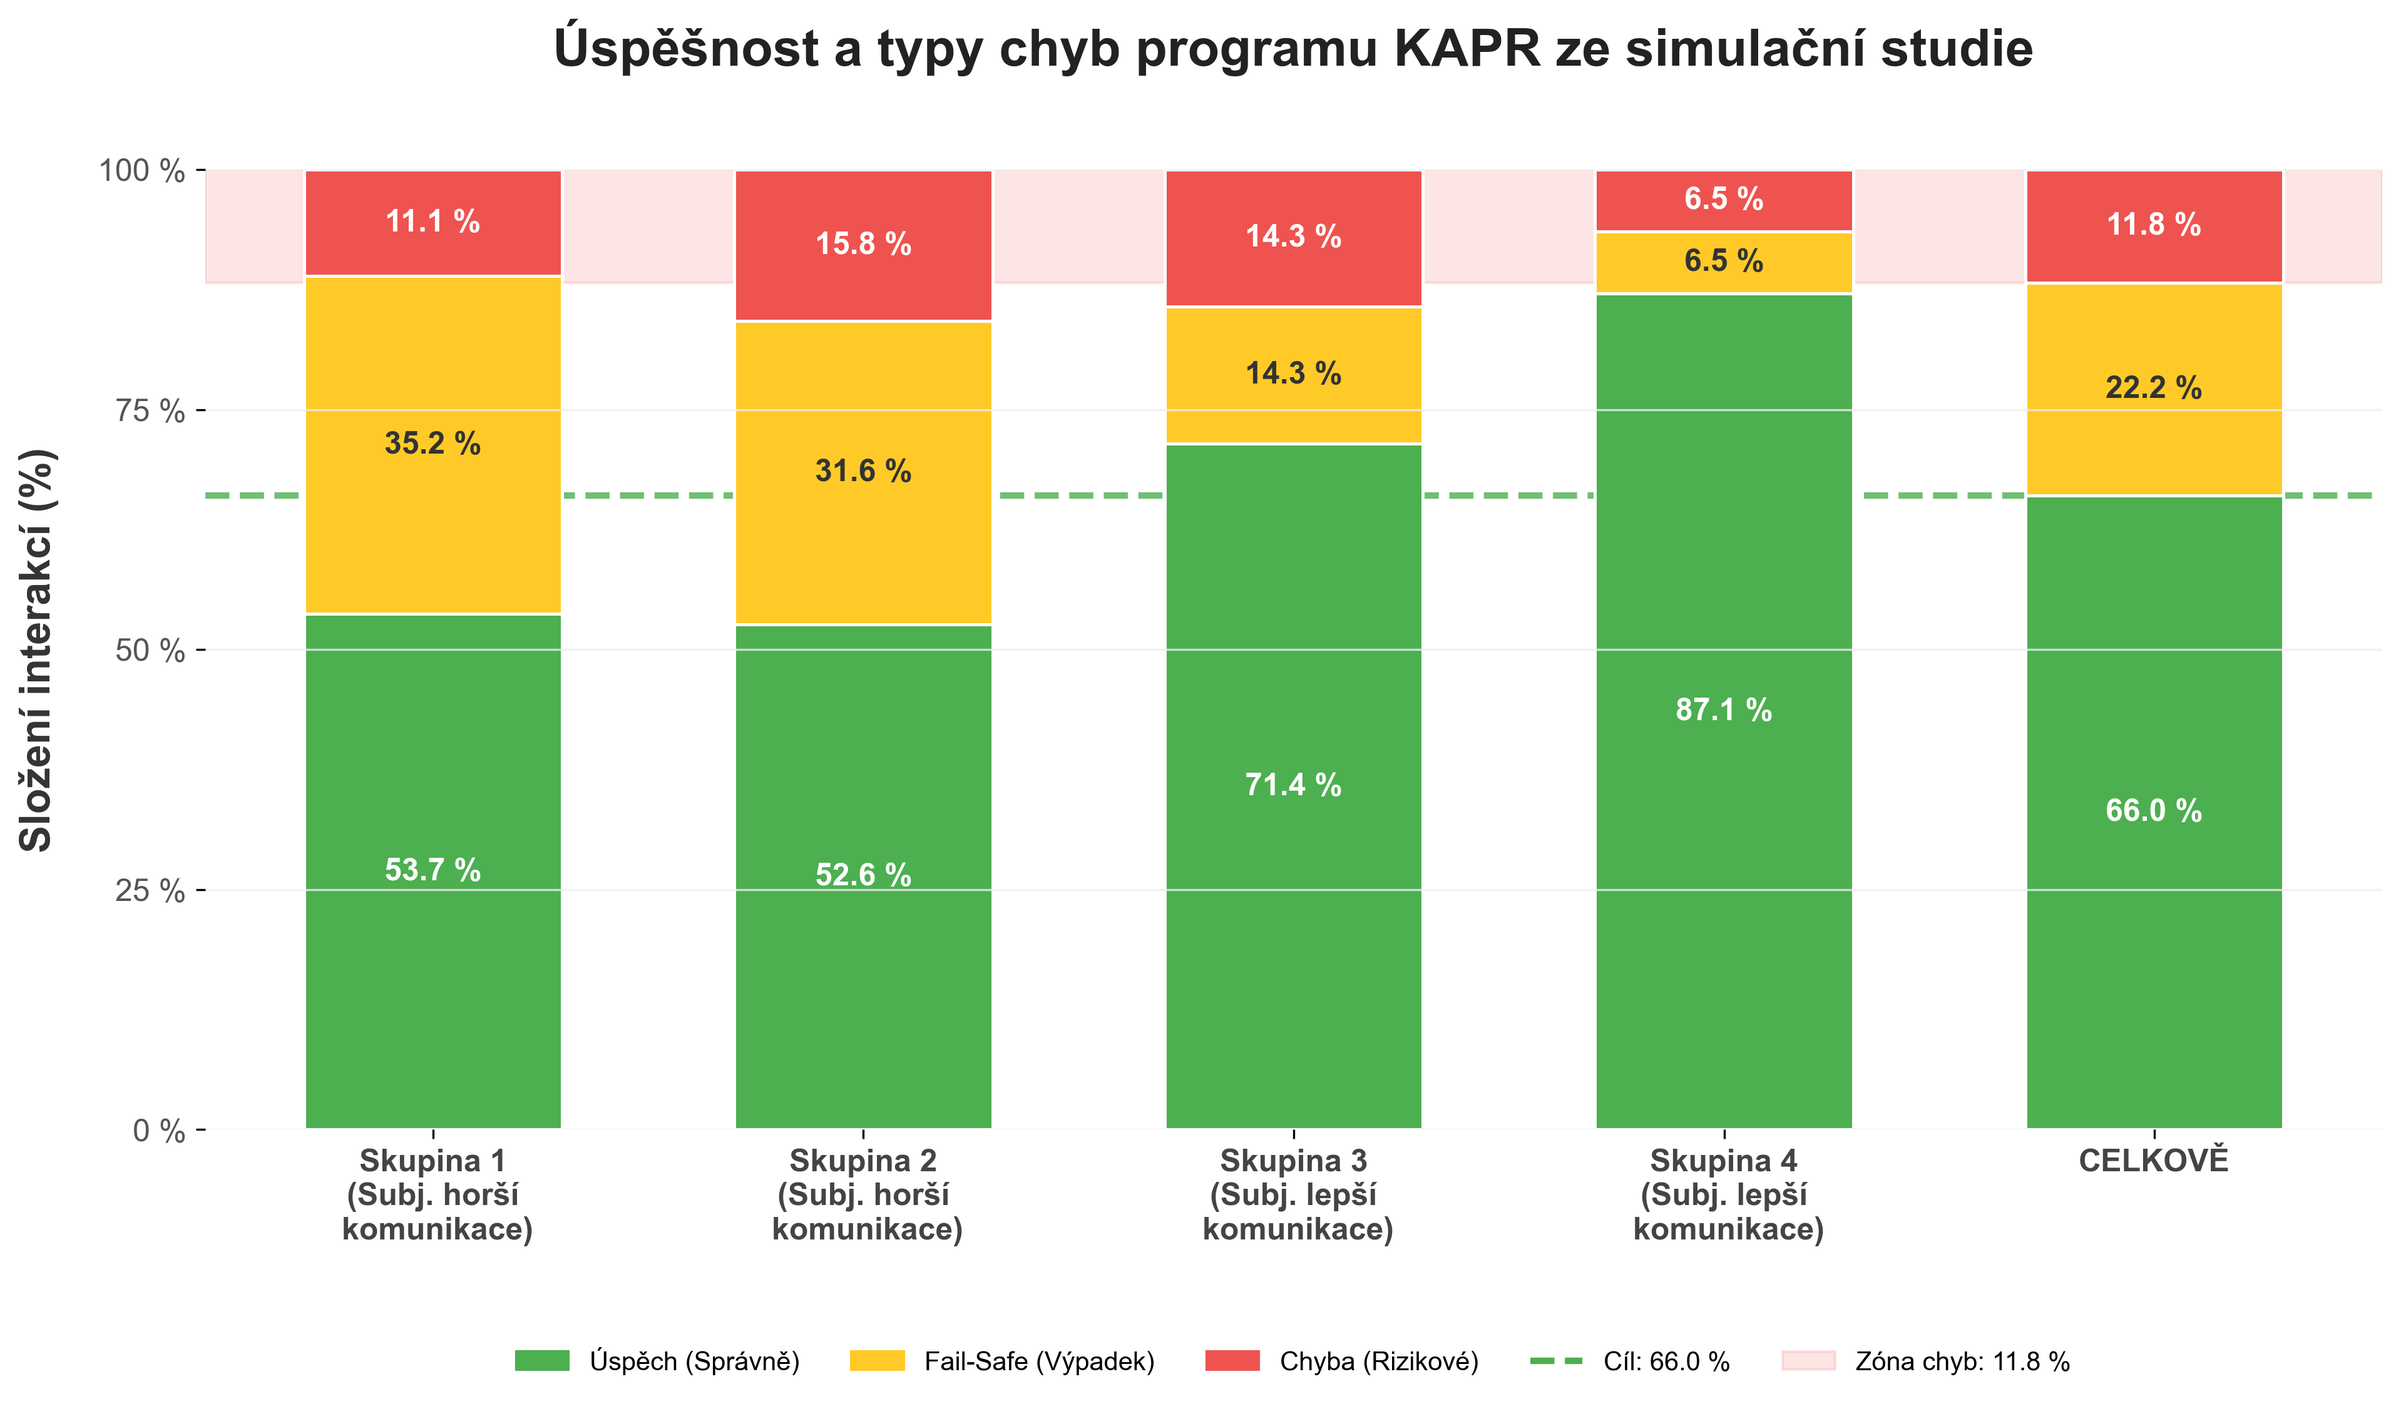
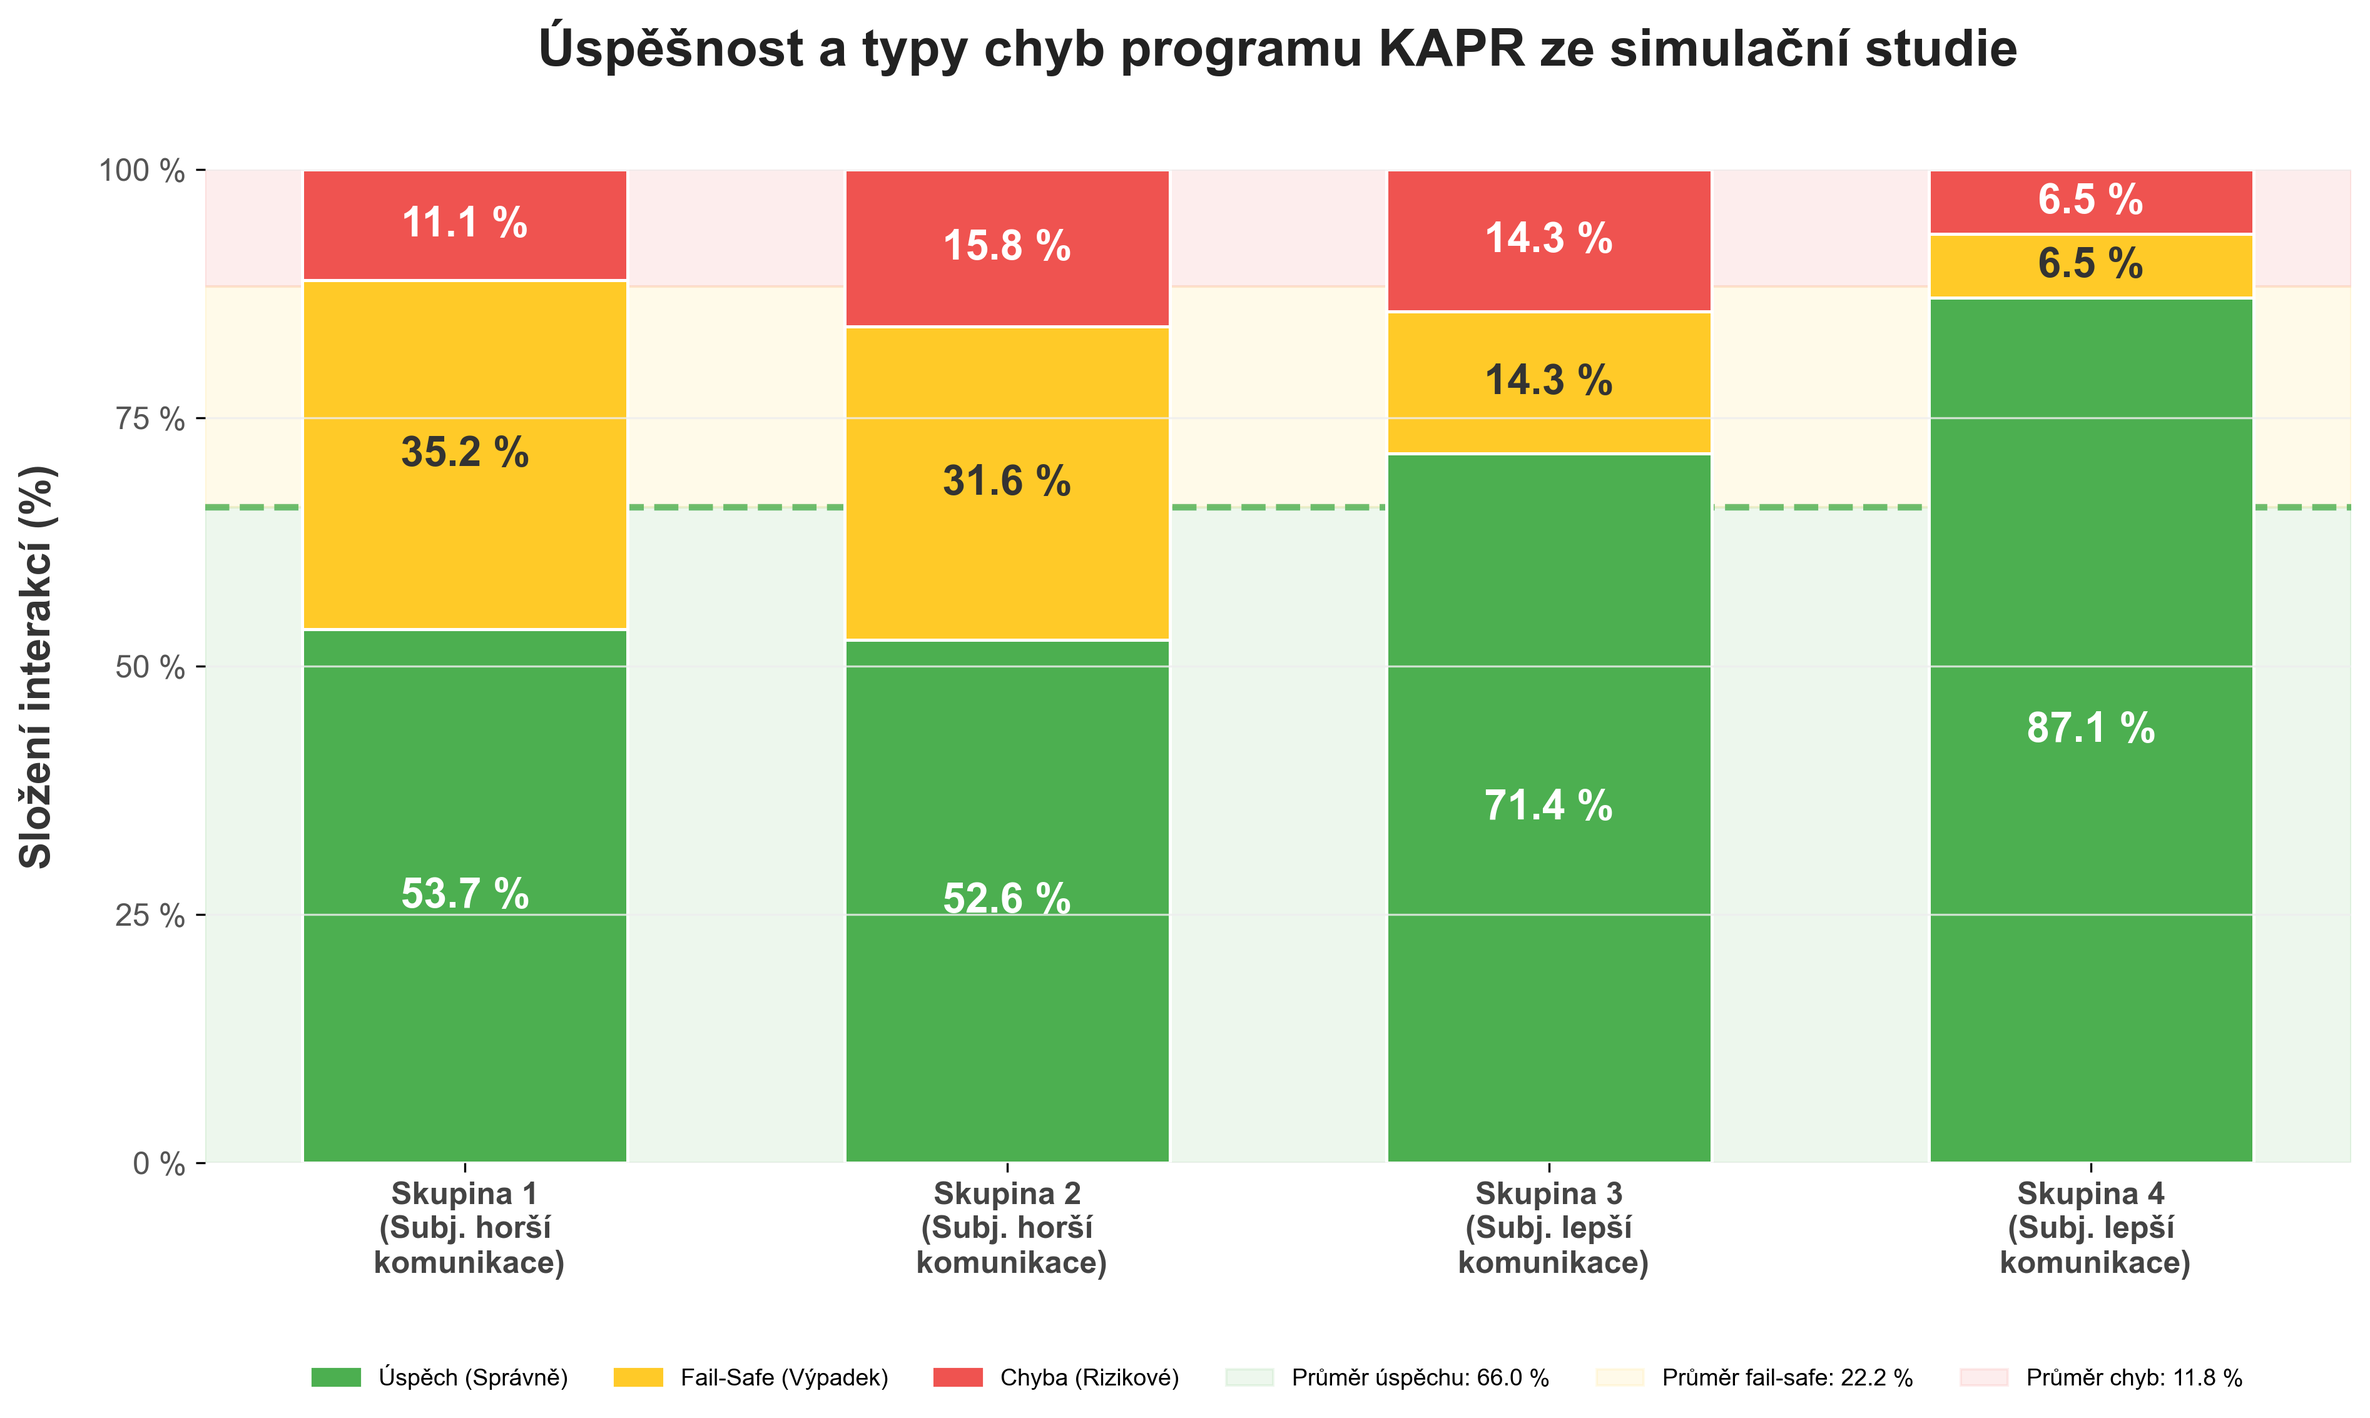
graphs transparent bg

diff --git a/survey_analysis/graph1.py b/survey_analysis/graph1.py
@@ -14,10 +14,10 @@ rcParams["font.family"] = "Arial"
 rcParams["font.size"] = 14
 rcParams["axes.titlesize"] = 20
 rcParams["axes.labelsize"] = 16
-rcParams["figure.figsize"] = (14, 9) # Trochu vyšší pro větší rozestupy
+rcParams["figure.figsize"] = (14, 10) # Ještě o kousek vyšší pro popisky nad kraji
 rcParams["axes.spines.top"] = False
 rcParams["axes.spines.right"] = False
-rcParams["axes.spines.left"] = False # Skrytí linky levé osy, když u ní nejsou popisky
+rcParams["axes.spines.left"] = False # Skrytí linky levé osy
 rcParams["axes.spines.bottom"] = False # Skrytí linky osy X
 
 # ========= NAČTENÍ DAT =========
@@ -25,13 +25,24 @@ try:
     df = pd.read_csv(CSV_PATH)
 except FileNotFoundError:
     print("Soubor nenalezen, generuji testovací data...")
-    df = pd.DataFrame({
+    np.random.seed(42)
+    test_data = {
         "Jak často si musíte ve zdravotnické dokumentace „vymýšlet“ některé údaje? (Např. Časy během KPR, podané léky, vitální parametry, apod.)": np.random.randint(1, 11, 100),
         "Přesnost dokumentace": np.random.randint(1, 11, 100),
         "Úsporu času ": np.random.randint(1, 11, 100),
         "Možnost zpětné analýzy": np.random.randint(1, 11, 100),
         "Snížení zátěže personálu": np.random.randint(1, 11, 100)
-    })
+    }
+    
+    df = pd.DataFrame(test_data)
+    
+    # OPRAVA: Převedeme celou tabulku na typ 'object', abychom do ní mohli vkládat texty
+    df = df.astype(object) 
+    
+    cols = list(df.columns)
+    df.loc[0, cols[0]] = "Často"
+    df.loc[1, cols[0]] = "Nikdy"
+    df.loc[2, cols[1]] = "Nezlepší"
 
 # Slovník mapující názvy
 column_mapping = {
@@ -69,7 +80,10 @@ for col in existing_cols:
     df[col] = df[col].apply(convert_likert)
 
 # ========= VYKRESLENÍ =========
+# fig, ax = plt.subplots(tight_layout=True) # tighten_layout může pomoci, ale upravíme ručně
 fig, ax = plt.subplots()
+fig.patch.set_alpha(0)  # Transparentní pozadí figure
+ax.patch.set_alpha(0)   # Transparentní pozadí plochy grafu (pod řádky)
 
 categories = list(range(1, 11))
 colors = [
@@ -77,14 +91,15 @@ colors = [
     "#f7f7f7", "#fddbc7", "#f4a582", "#d6604d", "#b2182b"
 ]
 
-# Zvětšení mezer mezi řádky (násobeno 1.5), aby se nad pruh vešel text
-y_positions = np.arange(len(existing_cols)) * 1.5
+# Zvětšení mezer mezi řádky (násobeno 1.8), aby se nad pruh vešlo více textu
+y_positions = np.arange(len(existing_cols)) * 1.8
 display_names_plotted = [column_mapping[col] for col in existing_cols]
 
 for i, col in enumerate(existing_cols):
     counts = df[col].value_counts(normalize=True).reindex(categories).fillna(0)
     cumulative = 0
 
+    # Vykreslení pruhů
     for j, cat in enumerate(categories):
         value = counts.get(cat, 0) * 100 
         
@@ -95,9 +110,10 @@ for i, col in enumerate(existing_cols):
                 left=cumulative,
                 color=colors[j],
                 edgecolor="white",
-                height=0.65
+                height=0.7 # Trochu tlustší pruh
             )
             
+            # Čísla uvnitř pruhů
             if value >= 4:
                 text_color = "black" if 3 <= j <= 6 else "white"
                 ax.text(
@@ -105,72 +121,58 @@ for i, col in enumerate(existing_cols):
                     y_positions[i], 
                     f"{int(round(value))}%", 
                     ha='center', va='center', 
-                    color=text_color, fontsize=11, fontweight='bold'
+                    color=text_color, fontsize=16, fontweight='bold'
                 )
                 
         cumulative += value
 
+    # Popisky otázek a konců škály
     display_name = display_names_plotted[i]
     left_text, right_text = row_labels[display_name]
     
-    # ---------------------------------------------------------
-    # NOVÉ: Název otázky centrovaný NAD pruhem (x=50, y=pozice+0.45)
-    # ---------------------------------------------------------
-    ax.text(50, y_positions[i] + 0.45, display_name, ha='center', va='bottom', 
-            fontsize=14, fontweight='bold', color='black')
+    # 1. Název otázky centrovaný NAD pruhem (y_pos + 0.6)
+    ax.text(50, y_positions[i] + 0.6, display_name, ha='center', va='bottom', 
+            fontsize=16, fontweight='bold', color='black')
     
-    # Texty vlevo a vpravo
-    ax.text(-2, y_positions[i], left_text, ha='right', va='center', 
-            fontsize=12, fontweight='bold', color='#444444')
-    ax.text(102, y_positions[i], right_text, ha='left', va='center', 
-            fontsize=12, fontweight='bold', color='#444444')
+    # ------------------------------------------------------------------
+    # NOVÉ: Popisky konců škály ("Nikdy/Často") přesunuty NAD PRUH na kraje
+    # ------------------------------------------------------------------
+    # Nastavíme stejnou vertikální výšku jako název otázky, va='bottom'
+    # Ale změníme x pozice na 0 a 100 a změníme ha (horizontální zarovnání)
+    label_y_pos = y_positions[i] + 0.6
+    
+    # Levý popis ("Nikdy"): x=0, zarovnat doleva (ha='left')
+    ax.text(0, label_y_pos, left_text, ha='left', va='bottom', 
+            fontsize=16, fontweight='bold', color='#555555')
+    
+    # Pravý popis ("Často"): x=100, zarovnat doprava (ha='right')
+    ax.text(100, label_y_pos, right_text, ha='right', va='bottom', 
+            fontsize=16, fontweight='bold', color='#555555')
 
 
-# Skryjeme původní osu Y (názvy jsme přesunuli nad pruhy)
+# Skryjeme původní osu Y
 ax.set_yticks([])
 
 # ==============================================================
-# VYLEPŠENÁ OSA X (Skrytí 0, zarovnání, barvy a dynamické obrysy)
+# OSE X (Zachováno předchozí nastavení)
 # ==============================================================
 ax.set_xlim(0, 100)
-
-# Osa začne od 10 do 100 (krok 10), tím se zbavíme nuly
 ax.set_xticks(np.arange(10, 101, 10)) 
 ax.set_xticklabels(['1', '2', '3', '4', '5', '6', '7', '8', '9', '10'])
-
-# Skryje samotné "čárky" na ose X, nechá pouze zarovnaný text
 ax.tick_params(axis='x', length=0) 
 
-# Projdeme popisky a obarvíme je + přidáme dynamický outline
+# Obarvení čísel na ose X
 for i, label in enumerate(ax.get_xticklabels()):
-    # Index 'i' jde 0 až 9, odpovídá číslům 1-10 a barvám v poli 'colors'
     label.set_color(colors[i])
     label.set_fontweight('bold')
-    
-    # Podmínka pro barvu outline - stejná logika jako máte pro čísla v grafu
-    # Indexy 3 až 6 (odpovídá číslům 4, 5, 6, 7 na škále) dostanou černý outline, zbytek bílý
-    #outline_color = "black" if 4 <= i <= 8 else "white"
     outline_color = "black"
-    
     label.set_path_effects([pe.withStroke(linewidth=1, foreground=outline_color)])
 
 ax.set_xlabel("Škála hodnocení", labelpad=15)
-ax.set_title("Očekávaný přínos AI systému", pad=30)
+ax.set_title("Očekávaný přínos AI systému", pad=40) # Ještě větší odstup titulu
 
-# ==============================================================
-# NOVÉ: Obarvení čísel 1 až 10 na ose X dle barev z grafu
-# ==============================================================
-for i, label in enumerate(ax.get_xticklabels()):
-    # Index 0 je prázdný řetězec (''), čísla 1-10 jsou na indexech 1 až 10
-    if i > 0 and i <= len(colors):
-        label.set_color(colors[i - 1])
-        label.set_fontweight('bold') # Přidáme tučné písmo pro lepší čitelnost
+# Úprava okrajů plátna - "left" jsme zmenšili, "right" zvětšili pro popisky, "top" pro název
+plt.subplots_adjust(left=0.05, right=0.95, top=0.9, bottom=0.1)
 
-ax.set_xlabel("Škála hodnocení", labelpad=10)
-ax.set_title("Očekávaný přínos AI systému", pad=30) # Větší odstup nadpisu
-
-# Úprava okrajů plátna - "left" jsme zmenšili, už nepotřebujeme tolik místa na původní dlouhé názvy
-plt.subplots_adjust(left=0.15, right=0.85, top=0.9, bottom=0.1)
-
-plt.savefig(OUTPUT_FILE, dpi=DPI, bbox_inches="tight")
+plt.savefig(OUTPUT_FILE, dpi=DPI, bbox_inches="tight", transparent=True)
 plt.show()

diff --git a/sim_study_analysis/sim_graph1.py b/sim_study_analysis/sim_graph1.py
@@ -38,7 +38,7 @@ for s in sorted(df_valid['Session'].unique()):
     else:
         labels.append(f'{label_base}\n(Subj. lepší\n komunikace)')
 
-# Výpočet pro sloupec "CELKOVĚ"
+# Výpočet celkového skóre (bez přidání do grafu)
 total_all = len(df_valid)
 ano_all = (df_valid['Vyhodnocení správně - ANO/NE'] == 'ANO').sum()
 typ1_all = (df_valid.iloc[:, 5] == 1.0).sum()
@@ -48,10 +48,11 @@ overall_type1 = typ1_all / total_all * 100
 # OPRAVA: Výpočet zbytku pro celkový součet
 overall_other = 100.0 - overall_rate - overall_type1
 
-success_rates.append(overall_rate)
-type1_rates.append(overall_type1)
-other_rates.append(overall_other)
-labels.append('CELKOVĚ')
+# Zakomentováno - místo sloupce budou zóny v pozadí
+# success_rates.append(overall_rate)
+# type1_rates.append(overall_type1)
+# other_rates.append(overall_other)
+# labels.append('CELKOVĚ')
 
 # ========= NASTAVENÍ STYLU =========
 rcParams["font.family"] = "Arial"
@@ -87,17 +88,19 @@ def add_labels_inside_bars(bars, rates, text_color):
             x = bar.get_x() + bar.get_width() / 2
             y = bar.get_y() + bar.get_height() / 2
             ax.text(x, y, f"{val:.1f} %", ha='center', va='center', 
-                    fontsize=12, color=text_color, fontweight='bold')
+                    fontsize=16, color=text_color, fontweight='bold')
 
 add_labels_inside_bars(bars_success, success_rates, 'white')
 add_labels_inside_bars(bars_type1, type1_rates, '#333333')
 add_labels_inside_bars(bars_type2, other_rates, 'white')
 
-average_error_type23 = other_rates[-1]
+# Zóny v pozadí znázorňující celkové skóre
+ax.axhspan(0, overall_rate, color=color_success, alpha=0.1, zorder=0)
+ax.axhspan(overall_rate, overall_rate + overall_type1, color=color_type1, alpha=0.1, zorder=0)
+ax.axhspan(overall_rate + overall_type1, 100, color=color_type2, alpha=0.1, zorder=0)
 
-# Čára a zóna v pozadí
+# Referenční čára pro úspěch
 ax.axhline(overall_rate, color=color_success, linestyle='--', linewidth=2.5, alpha=0.8, zorder=0)
-ax.axhspan(100 - average_error_type23, 100, color=color_type2, alpha=0.15, zorder=0)
 
 # Osa X
 ax.set_xticks(x_pos)
@@ -114,20 +117,20 @@ ax.set_yticklabels(['0 %', '25 %', '50 %', '75 %', '100 %'], color='#555555', fo
 ax.set_ylabel("Složení interakcí (%)", labelpad=15, fontweight='bold', color='#333333')
 ax.set_title("Úspěšnost a typy chyb programu KAPR ze simulační studie", pad=40, fontweight='bold', color='#222222')
 
-# ========= CELÁ LEGENDA V JEDNOM ŘÁDKU =========
+# ========= LEGENDA V JEDNOM ŘÁDKU =========
 leg_succ = mpatches.Patch(color=color_success, label='Úspěch (Správně)')
 leg_err1 = mpatches.Patch(color=color_type1, label='Fail-Safe (Výpadek)')
 leg_err2 = mpatches.Patch(color=color_type2, label='Chyba (Rizikové)')
-line_overall = mlines.Line2D([], [], color=color_success, linestyle='--', linewidth=2.5, label=f'Cíl: {overall_rate:.1f} %')
-# Použití mpatches.Patch pro 'Zónu', aby v legendě vypadala jako blok
-rect_error = mpatches.Patch(color=color_type2, alpha=0.15, label=f'Zóna chyb: {average_error_type23:.1f} %')
+zone_succ = mpatches.Patch(color=color_success, alpha=0.1, edgecolor=color_success, label=f'Průměr úspěchu: {overall_rate:.1f} %')
+zone_fail = mpatches.Patch(color=color_type1, alpha=0.1, edgecolor=color_type1, label=f'Průměr fail-safe: {overall_type1:.1f} %')
+zone_error = mpatches.Patch(color=color_type2, alpha=0.1, edgecolor=color_type2, label=f'Průměr chyb: {overall_other:.1f} %')
 
-# ncol=5 zajistí jeden řádek pro všechny prvky
-ax.legend(handles=[leg_succ, leg_err1, leg_err2, line_overall, rect_error], 
-          loc='lower center', bbox_to_anchor=(0.5, -0.28), ncol=5, frameon=False, fontsize=10)
+# Legenda v jednom řádku
+ax.legend(handles=[leg_succ, leg_err1, leg_err2, zone_succ, zone_fail, zone_error], 
+          loc='lower center', bbox_to_anchor=(0.5, -0.25), ncol=6, frameon=False, fontsize=9)
 
 ax.yaxis.grid(True, linestyle='-', color='#EEEEEE', alpha=0.8, zorder=0)
 
 plt.tight_layout()
-plt.savefig("graf_simulacni_studie.png", dpi=300, bbox_inches='tight')
+plt.savefig("graf_simulacni_studie.png", dpi=300, bbox_inches='tight', transparent=True)
 plt.show()

diff --git a/survey_analysis/graph2.py b/survey_analysis/graph2.py
@@ -79,7 +79,7 @@ wedges, texts, autotexts = ax.pie(
 for i, autotext in enumerate(autotexts):
     # Nastavení barvy textu podle podkladu (bílá/černá)
     autotext.set_color(current_text_colors[i])
-    autotext.set_fontsize(18) # Větší písmo pro procenta
+    autotext.set_fontsize(28) # Větší písmo pro procenta
     autotext.set_fontweight('bold')
 
 # 2. Stylování vnějších popisků (texts)
@@ -91,8 +91,11 @@ for text in texts:
 centre_circle = plt.Circle((0,0),0.70,fc='white')
 fig.gca().add_artist(centre_circle)
 
-ax.text(0, 0.05, "Celkem\nrespondentů", ha='center', va='bottom', fontsize=14, color='gray')
-ax.text(0, -0.05, f"{total_respondents}", ha='center', va='top', fontsize=28, fontweight='bold')
+fig.patch.set_alpha(0)  # Transparentní pozadí figure
+ax.patch.set_alpha(0)   # Transparentní pozadí plochy grafu (pod řádky)
+
+ax.text(0, 0.05, "Celkem\nrespondentů", ha='center', va='bottom', fontsize=16, color='gray')
+ax.text(0, -0.05, f"{total_respondents}", ha='center', va='top', fontsize=36, fontweight='bold')
 
 
 ax.set_title("Vnímání praktického přínosu systému", pad=20, fontweight='bold')
